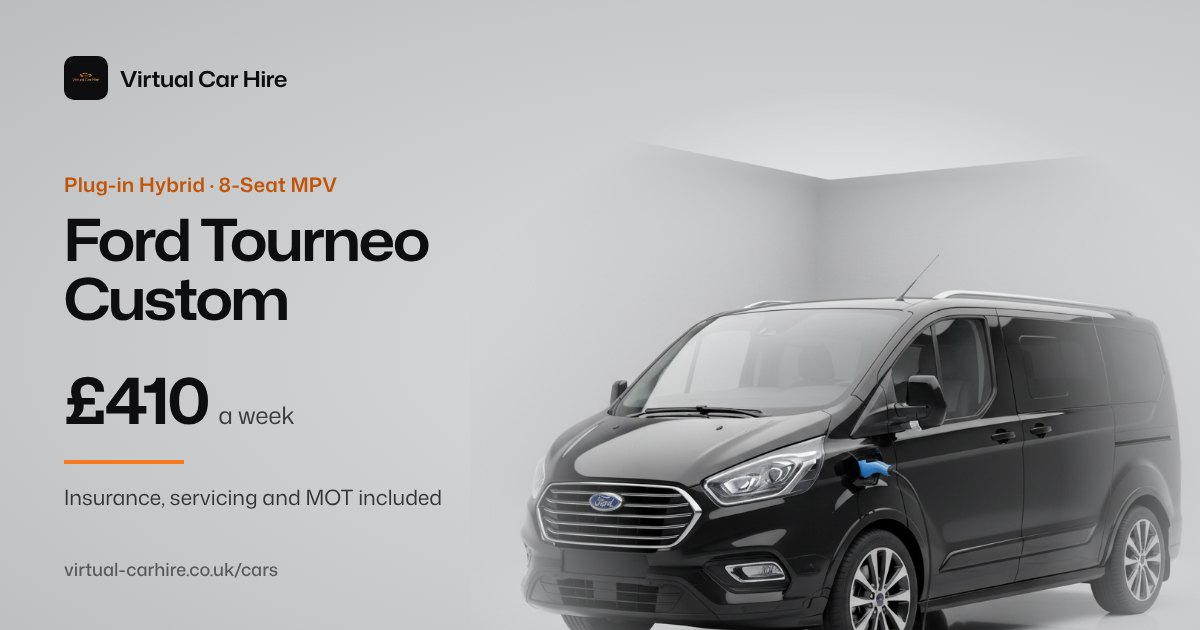
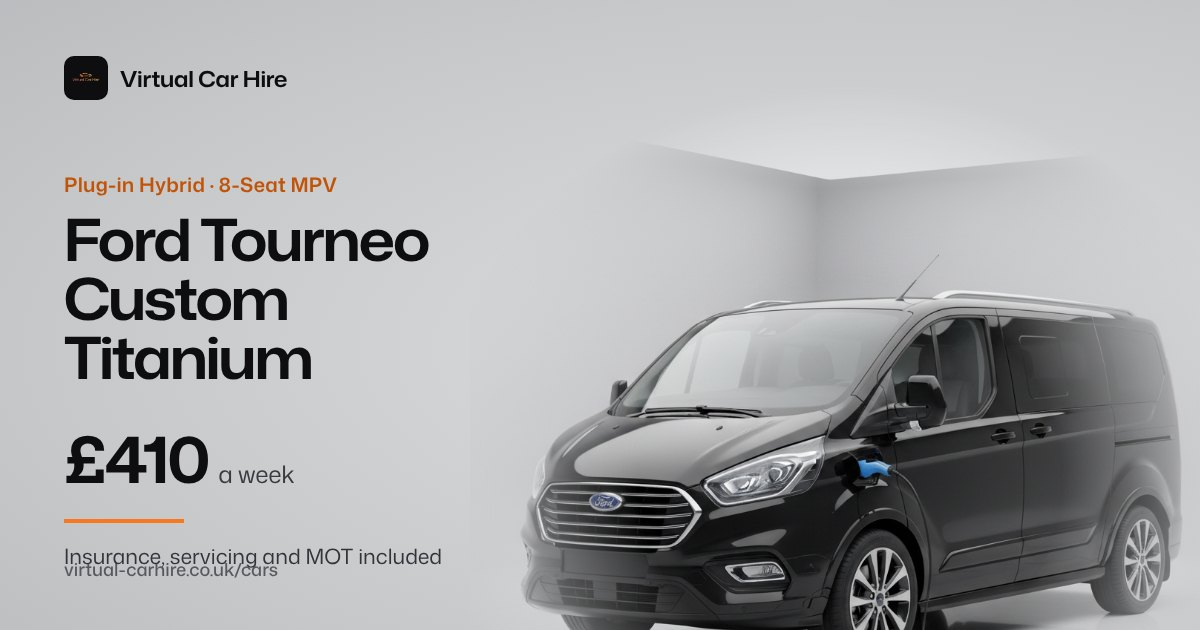
Use the exact model name: Ford Tourneo Custom Titanium
Renamed on the car page (title, H1, description, structured data, image
alt, Uber work section), fleet page, contact/WhatsApp/emergency car
lists, compare links on other car pages, Heathrow page, guides, 404
sitemap, llms.txt and the social preview image. The page URL is
unchanged. Title shortened to stay under 60 characters.

Claude-Session: https://claude.ai/code/session_019Zz3FwNu9oQsJR5fokkDqs

Changed region(s): [[0.0308, 0.5127, 0.37, 0.8444], [0.0617, 0.8746, 0.37, 0.9048]]

diff --git a/cars/ford-tourneo-custom.html b/cars/ford-tourneo-custom.html
@@ -5,8 +5,8 @@
   <meta name="viewport" content="width=device-width, initial-scale=1.0">
   
   <!-- Primary SEO Meta Tags -->
-  <title>Ford Tourneo Custom 9-Seater PCO Car Hire London, £410/wk</title>
-  <meta name="title" content="Ford Tourneo Custom 9-Seater PCO Car Hire London, £410/wk">
+  <title>Ford Tourneo Custom Titanium PCO Hire London, £410/wk</title>
+  <meta name="title" content="Ford Tourneo Custom Titanium PCO Hire London, £410/wk">
   <meta name="language" content="English">
   <meta name="revisit-after" content="7 days">
   
@@ -24,8 +24,8 @@
     "Product",
     "Car"
   ],
-  "name": "Ford Tourneo Custom PCO Hire",
-  "description": "Ford Tourneo Custom plug-in hybrid for PCO driving in London. Includes Insurance and servicing included.",
+  "name": "Ford Tourneo Custom Titanium PCO Hire",
+  "description": "Ford Tourneo Custom Titanium plug-in hybrid for PCO driving in London. Includes Insurance and servicing included.",
   "brand": {
     "@type": "Brand",
     "name": "Ford"
@@ -255,7 +255,7 @@
       .dynamic-island a i { margin: 0; }
     }
   </style>
-  <meta name="description" content="Hire an 8 or 9-seat Ford Tourneo Custom for UberXL and airport runs from £410 a week. Insurance, servicing and MOT included. Collect from Hounslow.">
+  <meta name="description" content="Hire an 8 or 9-seat Ford Tourneo Custom Titanium for UberXL and airport runs from £410 a week. Insurance, servicing and MOT included. Collect from Hounslow.">
   <meta name="keywords" content="PCO car hire London, PCO rental London, Uber car hire London, Bolt car hire London, electric PCO cars, hybrid PCO cars">
   <meta name="robots" content="index,follow,max-image-preview:large,max-snippet:-1,max-video-preview:-1">
   <meta name="author" content="Virtual Car Hire">
@@ -266,17 +266,17 @@
   <meta property="og:type" content="website">
   <meta property="og:site_name" content="Virtual Car Hire">
   <meta property="og:url" content="https://www.virtual-carhire.co.uk/cars/ford-tourneo-custom">
-  <meta property="og:title" content="Ford Tourneo Custom 9-Seater PCO Car Hire London, £410/wk">
-  <meta property="og:description" content="Hire an 8 or 9-seat Ford Tourneo Custom for UberXL and airport runs from £410 a week. Insurance, servicing and MOT included. Collect from Hounslow.">
+  <meta property="og:title" content="Ford Tourneo Custom Titanium PCO Hire London, £410/wk">
+  <meta property="og:description" content="Hire an 8 or 9-seat Ford Tourneo Custom Titanium for UberXL and airport runs from £410 a week. Insurance, servicing and MOT included. Collect from Hounslow.">
   <meta property="og:image" content="https://www.virtual-carhire.co.uk/assets/social/og/car-ford-tourneo-custom.jpg">
     <meta property="og:image:width" content="1200">
   <meta property="og:image:height" content="630">
   <meta property="og:image:type" content="image/jpeg">
-  <meta property="og:image:alt" content="Ford Tourneo Custom 9-Seater PCO Car Hire London, £410/wk">
+  <meta property="og:image:alt" content="Ford Tourneo Custom Titanium PCO Hire London, £410/wk">
 <meta name="twitter:card" content="summary_large_image">
   <meta name="twitter:url" content="https://www.virtual-carhire.co.uk/cars/ford-tourneo-custom">
-  <meta name="twitter:title" content="Ford Tourneo Custom 9-Seater PCO Car Hire London, £410/wk">
-  <meta name="twitter:description" content="Hire an 8 or 9-seat Ford Tourneo Custom for UberXL and airport runs from £410 a week. Insurance, servicing and MOT included. Collect from Hounslow.">
+  <meta name="twitter:title" content="Ford Tourneo Custom Titanium PCO Hire London, £410/wk">
+  <meta name="twitter:description" content="Hire an 8 or 9-seat Ford Tourneo Custom Titanium for UberXL and airport runs from £410 a week. Insurance, servicing and MOT included. Collect from Hounslow.">
   <meta name="twitter:image" content="https://www.virtual-carhire.co.uk/assets/social/og/car-ford-tourneo-custom.jpg">
   <link rel="canonical" href="https://www.virtual-carhire.co.uk/cars/ford-tourneo-custom">
   <link rel="alternate" type="text/plain" href="/llms.txt" title="AI-readable site summary">
@@ -296,7 +296,7 @@
       {
         "@type": "ListItem",
         "position": 2,
-        "name": "Ford Tourneo Custom PCO Car Hire London",
+        "name": "Ford Tourneo Custom Titanium PCO Car Hire London",
         "item": "https://www.virtual-carhire.co.uk/cars/ford-tourneo-custom"
       }
     ]
@@ -460,8 +460,8 @@
       "@type": "WebPage",
       "@id": "https://www.virtual-carhire.co.uk/cars/ford-tourneo-custom#webpage",
       "url": "https://www.virtual-carhire.co.uk/cars/ford-tourneo-custom",
-      "name": "Ford Tourneo Custom 8/9 Seater PCO Hire London | Minibus Rental | Virtual Car Hire",
-      "description": "Rent an 8 or 9-seater Ford Tourneo Custom PCO minibus in London & Luton from \u00a3410/week. Spacious MPV for UberXL, airport transfers, and group travel.",
+      "name": "Ford Tourneo Custom Titanium 8/9 Seater PCO Hire London | Minibus Rental | Virtual Car Hire",
+      "description": "Rent an 8 or 9-seater Ford Tourneo Custom Titanium PCO minibus in London & Luton from \u00a3410/week. Spacious MPV for UberXL, airport transfers, and group travel.",
       "isPartOf": {
         "@id": "https://www.virtual-carhire.co.uk/#website"
       },
@@ -480,7 +480,7 @@
       "@id": "https://www.virtual-carhire.co.uk/cars/ford-tourneo-custom#image",
       "url": "https://www.virtual-carhire.co.uk/assets/social/ford-tourneo-custom-v2.jpg?v=2",
       "contentUrl": "https://www.virtual-carhire.co.uk/assets/social/ford-tourneo-custom-v2.jpg?v=2",
-      "caption": "Ford Tourneo Custom 8/9 Seater PCO Hire London | Minibus Rental | Virtual Car Hire"
+      "caption": "Ford Tourneo Custom Titanium 8/9 Seater PCO Hire London | Minibus Rental | Virtual Car Hire"
     }
   ]
 }
@@ -529,13 +529,13 @@
 
 <section class="hero vch-enter">
   <div class="hero-inner">
-    <div style="display:flex;gap:16px;align-items:center;margin-bottom:28px;"><nav class="crumbs" aria-label="Breadcrumb"><a href="/"><i class="fa-solid fa-house"></i> Home</a><span class="sep"><i class="fa-solid fa-chevron-right"></i></span><a href="/our-fleet">Fleet</a><span class="sep"><i class="fa-solid fa-chevron-right"></i></span><span class="current">Ford Tourneo Custom</span></nav><span style="color:#555;">|</span><a class="back-link" href="/our-fleet"><i class="fa-solid fa-arrow-left"></i> Back to full fleet</a></div>
+    <div style="display:flex;gap:16px;align-items:center;margin-bottom:28px;"><nav class="crumbs" aria-label="Breadcrumb"><a href="/"><i class="fa-solid fa-house"></i> Home</a><span class="sep"><i class="fa-solid fa-chevron-right"></i></span><a href="/our-fleet">Fleet</a><span class="sep"><i class="fa-solid fa-chevron-right"></i></span><span class="current">Ford Tourneo Custom Titanium</span></nav><span style="color:#555;">|</span><a class="back-link" href="/our-fleet"><i class="fa-solid fa-arrow-left"></i> Back to full fleet</a></div>
     <div class="hero-grid">
       <div class="hero-left">
         <span class="fuel-badge plugin-hybrid">Plug-in Hybrid</span>
-        <h1 class="hero-title">Ford Tourneo Custom 8/9 Seater PCO Hire London</h1>
+        <h1 class="hero-title">Ford Tourneo Custom Titanium 8/9 Seater PCO Hire London</h1>
         <p class="hero-subtitle">Plug-in Hybrid · 8-Seat MPV</p>
-        <p class="hero-desc">The Ford Tourneo Custom is a flexible 8/9-seater MPV engineered for high-volume luggage and passenger comfort. Highly popular for London Luton Airport, Heathrow transfers, and UberXL group bookings.</p>
+        <p class="hero-desc">The Ford Tourneo Custom Titanium is a flexible 8/9-seater MPV engineered for high-volume luggage and passenger comfort. Highly popular for London Luton Airport, Heathrow transfers, and UberXL group bookings.</p>
         <div class="hero-price"><span class="amount">£410</span><span class="period"> /week</span></div>
         <p class="hero-incl"><i class="fas fa-check-circle" style="color:#e85d04"></i> Insurance &amp; service included</p>
         <div class="hero-btns">
@@ -551,7 +551,7 @@
       </div>
       <div class="hero-right">
         <div class="hero-img-wrap">
-          <img src="https://media.base44.com/images/public/6a1f346b7b17a237b494bdf9/e883f54fd_generated_image.png" alt="Ford Tourneo Custom" decoding="async"></div>
+          <img src="https://media.base44.com/images/public/6a1f346b7b17a237b494bdf9/e883f54fd_generated_image.png" alt="Ford Tourneo Custom Titanium" decoding="async"></div>
       </div>
     </div>
   </div>
@@ -560,7 +560,7 @@
   <div class="container">
     <div class="vch-carinfo__head">
       <p class="vch-carinfo__kicker">On the road</p>
-      <h2 id="carinfo-title">What the Ford Tourneo Custom is like for Uber work</h2>
+      <h2 id="carinfo-title">What the Ford Tourneo Custom Titanium is like for Uber work</h2>
       <p class="vch-carinfo__intro">A full-size plug-in hybrid people carrier. Room for big groups and all their bags, with electric running for shorter trips and petrol for long airport runs.</p>
     </div>
     <div class="vch-carinfo__specs"><div><b>Up to 9</b><span>seats</span></div><div><b>~35 miles</b><span>on electric alone</span></div><div><b>2.5 petrol</b><span>plug-in hybrid</span></div><div><b>Sliding</b><span>side doors for easy loading</span></div></div>
@@ -641,7 +641,7 @@
 <section class="vehicle-action-section" style="background:#111116;color:#fff;padding:60px 24px;text-align:center;border-top:1px solid rgba(255,255,255,0.12);">
   <div class="container" style="max-width:960px;margin:0 auto;">
     <span style="display:inline-block;color:#f7791f;font-size:12px;font-weight:700;letter-spacing:2px;text-transform:uppercase;margin-bottom:12px;"><i class="fa-solid fa-key"></i> Ready To Drive?</span>
-    <h2 style="font-family:'Playfair Display',serif;font-size:clamp(28px,4vw,42px);font-weight:700;margin-bottom:12px;color:#fff;">Hire The Ford Tourneo Custom 8/9 Seater PCO Hire London Today</h2>
+    <h2 style="font-family:'Playfair Display',serif;font-size:clamp(28px,4vw,42px);font-weight:700;margin-bottom:12px;color:#fff;">Hire The Ford Tourneo Custom Titanium 8/9 Seater PCO Hire London Today</h2>
     <p style="color:#cbd5e1;font-size:16px;max-width:600px;margin:0 auto 32px;line-height:1.6;">Contact our team now for instant availability, same-day onboarding, and simple document verification.</p>
 
     <div class="vehicle-action-buttons" style="display:flex;gap:16px;justify-content:center;align-items:center;flex-wrap:wrap;margin-bottom:28px;">

diff --git a/emergency.html b/emergency.html
@@ -193,7 +193,7 @@
   </div>
 </header>
   <main>
-    <section class="page-hero whatsapp-hero vch-split vch-enter" data-no-cue style="--hero-img:url('/assets/img/heroes/emergency.webp');--hero-pos:center 50%"><div class="container"><div class="vch-split__copy"><div class="crumbs"><a href="index.html">Home</a><span>/</span><span>Emergency support</span></div><span class="emergency-hero-icon"><i class="fas fa-triangle-exclamation"></i></span><span class="hero-pill"><span class="dot"></span> Available 24 hours a day</span><h1>Emergency support for <span class="em">PCO drivers</span> in London</h1><p>Find the Virtual Car Hire emergency WhatsApp number for after-hours support in London. Use it when it is outside office hours or when a member of our team is not responding. Send a message or call the number directly.</p></div><div class="glass-form-card vch-split__form vch-card"><div class="form-card-top"><span class="form-icon"><i class="fas fa-triangle-exclamation"></i></span><div><h2>Send an urgent message</h2><p>We’ll prepare it for WhatsApp.</p></div></div><form id="emergencyEnquiryForm" novalidate data-flow data-review="Ready to send?"><div data-step data-q="First, what's your name?"><div class="vch-pair"><input data-label="First name" name="firstName" type="text" autocomplete="given-name" placeholder="e.g. Areeb" required /><input data-label="Last name" name="lastName" type="text" autocomplete="family-name" placeholder="e.g. Ansari" required /></div></div><div data-step data-q="What do you need help with?" data-label="Issue"><select name="issue" required><option value="" selected disabled>Select an option</option><option>Emergency Breakdown</option><option>Report a Crash</option><option>Out of Office</option><option>Other</option></select></div><div data-step data-q="Which vehicle is it?" data-hint="Optional. Skip it if you are not sure." data-label="Vehicle"><select name="vehicle"><option value="Not specified" selected>Not specified</option><option>Mercedes E300</option><option>Mercedes Vito</option><option>Mercedes V-Class</option><option>Mercedes EQS</option><option>Mercedes E220D</option><option>Mercedes EQE</option><option>Toyota Corolla Estate</option><option>Toyota Auris Estate</option><option>Toyota Prius</option><option>Tesla Model 3</option><option>Jaguar I-Pace</option><option>Hyundai IONIQ</option><option>MG5 EV</option><option>Ford Tourneo Custom</option><option>MG S9 PHEV SUV</option><option>Hyundai Santa Fe</option><option>Hyundai Santa Fe 2026</option></select></div><div data-step data-q="Briefly, what happened?" data-hint="Where you are and what you need. Key details only." data-label="Details"><textarea name="details" rows="4" placeholder="Give us the key details so we can help faster." required></textarea></div><button class="btn btn-wa" type="submit"><i class="fab fa-whatsapp"></i> Prepare emergency WhatsApp</button><p class="form-note"><i class="fas fa-lock"></i> Nothing is sent until you choose WhatsApp.</p><div id="emergencySuccess" class="emergency-success" aria-live="polite"><div class="success-check"><i class="fas fa-check"></i></div><h3>Your message is ready</h3><p>WhatsApp will open with your urgent enquiry prefilled.</p><a id="sendEmergencyWhatsapp" class="btn btn-wa" href="#" rel="noopener"><i class="fab fa-whatsapp"></i> Send to WhatsApp</a><button id="editEmergency" class="edit-link" type="button">Edit my details</button></div></form></div></div></section>
+    <section class="page-hero whatsapp-hero vch-split vch-enter" data-no-cue style="--hero-img:url('/assets/img/heroes/emergency.webp');--hero-pos:center 50%"><div class="container"><div class="vch-split__copy"><div class="crumbs"><a href="index.html">Home</a><span>/</span><span>Emergency support</span></div><span class="emergency-hero-icon"><i class="fas fa-triangle-exclamation"></i></span><span class="hero-pill"><span class="dot"></span> Available 24 hours a day</span><h1>Emergency support for <span class="em">PCO drivers</span> in London</h1><p>Find the Virtual Car Hire emergency WhatsApp number for after-hours support in London. Use it when it is outside office hours or when a member of our team is not responding. Send a message or call the number directly.</p></div><div class="glass-form-card vch-split__form vch-card"><div class="form-card-top"><span class="form-icon"><i class="fas fa-triangle-exclamation"></i></span><div><h2>Send an urgent message</h2><p>We’ll prepare it for WhatsApp.</p></div></div><form id="emergencyEnquiryForm" novalidate data-flow data-review="Ready to send?"><div data-step data-q="First, what's your name?"><div class="vch-pair"><input data-label="First name" name="firstName" type="text" autocomplete="given-name" placeholder="e.g. Areeb" required /><input data-label="Last name" name="lastName" type="text" autocomplete="family-name" placeholder="e.g. Ansari" required /></div></div><div data-step data-q="What do you need help with?" data-label="Issue"><select name="issue" required><option value="" selected disabled>Select an option</option><option>Emergency Breakdown</option><option>Report a Crash</option><option>Out of Office</option><option>Other</option></select></div><div data-step data-q="Which vehicle is it?" data-hint="Optional. Skip it if you are not sure." data-label="Vehicle"><select name="vehicle"><option value="Not specified" selected>Not specified</option><option>Mercedes E300</option><option>Mercedes Vito</option><option>Mercedes V-Class</option><option>Mercedes EQS</option><option>Mercedes E220D</option><option>Mercedes EQE</option><option>Toyota Corolla Estate</option><option>Toyota Auris Estate</option><option>Toyota Prius</option><option>Tesla Model 3</option><option>Jaguar I-Pace</option><option>Hyundai IONIQ</option><option>MG5 EV</option><option>Ford Tourneo Custom Titanium</option><option>MG S9 PHEV SUV</option><option>Hyundai Santa Fe</option><option>Hyundai Santa Fe 2026</option></select></div><div data-step data-q="Briefly, what happened?" data-hint="Where you are and what you need. Key details only." data-label="Details"><textarea name="details" rows="4" placeholder="Give us the key details so we can help faster." required></textarea></div><button class="btn btn-wa" type="submit"><i class="fab fa-whatsapp"></i> Prepare emergency WhatsApp</button><p class="form-note"><i class="fas fa-lock"></i> Nothing is sent until you choose WhatsApp.</p><div id="emergencySuccess" class="emergency-success" aria-live="polite"><div class="success-check"><i class="fas fa-check"></i></div><h3>Your message is ready</h3><p>WhatsApp will open with your urgent enquiry prefilled.</p><a id="sendEmergencyWhatsapp" class="btn btn-wa" href="#" rel="noopener"><i class="fab fa-whatsapp"></i> Send to WhatsApp</a><button id="editEmergency" class="edit-link" type="button">Edit my details</button></div></form></div></div></section>
     <section class="emergency-section"><div class="container emergency-layout">
       <div class="emergency-copy"><span class="eyebrow">After-hours London support</span><h2>Fast emergency support for London PCO <span class="em">drivers.</span></h2><p>Use this page after office hours when you need urgent Virtual Car Hire support, or when a member of our team is not responding. It is intended for emergency breakdowns, crash reports and other urgent rental-support matters across Hounslow, Heathrow, West London and Greater London.</p><div class="emergency-number-card"><small>Virtual Car Hire after-hours emergency WhatsApp</small><a class="emergency-number-link" href="https://wa.me/447508496940?text=Hi%20Virtual%20Car%20Hire%2C%20I%20need%20car%20enquiry%20or%20emergency%20support." rel="noopener" title="WhatsApp +44 20 7294 6756" aria-label="WhatsApp +44 20 7294 6756"><i class="fab fa-whatsapp"></i> +44 20 7294 6756</a><span>Use this number after office hours or when a member of our team is not responding. Tap to open WhatsApp, or use the call button below.</span><div class="emergency-actions"><a class="emergency-number-link btn btn-wa" href="https://wa.me/447508496940?text=Hi%20Virtual%20Car%20Hire%2C%20I%20need%20car%20enquiry%20or%20emergency%20support." rel="noopener" title="WhatsApp +44 20 7294 6756" aria-label="WhatsApp +44 20 7294 6756"><i class="fab fa-whatsapp"></i> WhatsApp now</a><a class="emergency-number-link btn btn-ghost" href="tel:+442072946756"><i class="fas fa-phone"></i> +44 20 7294 6756</a></div></div><p class="emergency-note"><i class="fas fa-circle-info"></i><span>This number is intended for use after office hours and when a member of our team is not responding. It is for Virtual Car Hire rental and vehicle-support enquiries. For a life-threatening emergency or immediate danger in the UK, call 999.</span></p></div>
       

diff --git a/whatsapp.html b/whatsapp.html
@@ -149,7 +149,7 @@
 </header>
 
   <main>
-    <section class="page-hero whatsapp-hero vch-split vch-enter" data-no-cue style="--hero-img:url('/assets/img/heroes/whatsapp.webp');--hero-pos:center 40%"><div class="container"><div class="vch-split__copy"><div class="crumbs"><a href="index.html">Home</a><span>/</span><span>WhatsApp enquiry</span></div><span class="hero-pill"><span class="dot"></span> Start your enquiry</span><h1>Ask about <span class="em">PCO car hire</span> on WhatsApp</h1><p>Share your details and the car you have in mind. We’ll prepare a message for WhatsApp so our team can help you get on the road.</p></div><div class="glass-form-card vch-split__form vch-card"><div class="form-card-top"><span class="form-icon"><i class="fab fa-whatsapp"></i></span><div><h2>WhatsApp us</h2><p>Tell us what you need.</p></div></div><form id="whatsappEnquiryForm" novalidate data-flow data-review="Ready to open WhatsApp?"><div data-step data-q="First, what's your name?"><div class="vch-pair"><input data-label="First name" name="firstName" type="text" autocomplete="given-name" placeholder="e.g. Areeb" required /><input data-label="Last name" name="lastName" type="text" autocomplete="family-name" placeholder="e.g. Ansari" required /></div></div><div data-step data-q="Which car do you want to rent?" data-label="Car"><select name="car" required><option value="" selected disabled>Select a vehicle</option><option>Mercedes E300</option><option>Mercedes Vito</option><option>Mercedes V-Class</option><option>Mercedes EQS</option><option>Mercedes E220D</option><option>Mercedes EQE</option><option>Toyota Corolla Estate</option><option>Toyota Auris Estate</option><option>Toyota Prius</option><option>Tesla Model 3</option><option>Jaguar I-Pace</option><option>Hyundai IONIQ</option><option>MG5 EV</option><option>Ford Tourneo Custom</option><option>MG S9 PHEV SUV</option><option>Hyundai Santa Fe</option><option>Hyundai Santa Fe 2026</option></select></div><button class="btn btn-wa" type="submit"><i class="fab fa-whatsapp"></i> Prepare WhatsApp message</button><p class="form-note"><i class="fas fa-lock"></i> Your details stay in your browser until you choose to send.</p><div id="whatsappSuccess" class="whatsapp-success" aria-live="polite"><div class="success-check"><i class="fas fa-check"></i></div><h3>Your message is ready</h3><p>WhatsApp will open with your enquiry prefilled.</p><a id="sendWhatsapp" class="btn btn-wa" href="#" rel="noopener"><i class="fab fa-whatsapp"></i> Send to WhatsApp</a><button id="editEnquiry" class="edit-link" type="button">Edit my details</button></div></form></div></div></section>
+    <section class="page-hero whatsapp-hero vch-split vch-enter" data-no-cue style="--hero-img:url('/assets/img/heroes/whatsapp.webp');--hero-pos:center 40%"><div class="container"><div class="vch-split__copy"><div class="crumbs"><a href="index.html">Home</a><span>/</span><span>WhatsApp enquiry</span></div><span class="hero-pill"><span class="dot"></span> Start your enquiry</span><h1>Ask about <span class="em">PCO car hire</span> on WhatsApp</h1><p>Share your details and the car you have in mind. We’ll prepare a message for WhatsApp so our team can help you get on the road.</p></div><div class="glass-form-card vch-split__form vch-card"><div class="form-card-top"><span class="form-icon"><i class="fab fa-whatsapp"></i></span><div><h2>WhatsApp us</h2><p>Tell us what you need.</p></div></div><form id="whatsappEnquiryForm" novalidate data-flow data-review="Ready to open WhatsApp?"><div data-step data-q="First, what's your name?"><div class="vch-pair"><input data-label="First name" name="firstName" type="text" autocomplete="given-name" placeholder="e.g. Areeb" required /><input data-label="Last name" name="lastName" type="text" autocomplete="family-name" placeholder="e.g. Ansari" required /></div></div><div data-step data-q="Which car do you want to rent?" data-label="Car"><select name="car" required><option value="" selected disabled>Select a vehicle</option><option>Mercedes E300</option><option>Mercedes Vito</option><option>Mercedes V-Class</option><option>Mercedes EQS</option><option>Mercedes E220D</option><option>Mercedes EQE</option><option>Toyota Corolla Estate</option><option>Toyota Auris Estate</option><option>Toyota Prius</option><option>Tesla Model 3</option><option>Jaguar I-Pace</option><option>Hyundai IONIQ</option><option>MG5 EV</option><option>Ford Tourneo Custom Titanium</option><option>MG S9 PHEV SUV</option><option>Hyundai Santa Fe</option><option>Hyundai Santa Fe 2026</option></select></div><button class="btn btn-wa" type="submit"><i class="fab fa-whatsapp"></i> Prepare WhatsApp message</button><p class="form-note"><i class="fas fa-lock"></i> Your details stay in your browser until you choose to send.</p><div id="whatsappSuccess" class="whatsapp-success" aria-live="polite"><div class="success-check"><i class="fas fa-check"></i></div><h3>Your message is ready</h3><p>WhatsApp will open with your enquiry prefilled.</p><a id="sendWhatsapp" class="btn btn-wa" href="#" rel="noopener"><i class="fab fa-whatsapp"></i> Send to WhatsApp</a><button id="editEnquiry" class="edit-link" type="button">Edit my details</button></div></form></div></div></section>
     <section class="whatsapp-section"><div class="container whatsapp-layout">
       <div class="whatsapp-copy"><span class="eyebrow">Direct to our team</span><h2>A quicker way to <span class="em">hire a PCO car in London.</span></h2><p>Choose a vehicle from our current fleet and send a clear, prefilled enquiry to Virtual Car Hire. You stay in control of the message before it opens in WhatsApp.</p><div class="whatsapp-points"><div><i class="fas fa-shield-halved"></i><span><strong>Insurance included</strong><small>Every listed vehicle is covered.</small></span></div><div><i class="fas fa-clock"></i><span><strong>Fast response</strong><small>Speak directly with our London team.</small></span></div><div><i class="fas fa-car-side"></i><span><strong>PCO-ready fleet</strong><small>Cars for Uber, Bolt and Ola drivers.</small></span></div></div></div>
       

diff --git a/pco-car-hire-heathrow.html b/pco-car-hire-heathrow.html
@@ -122,7 +122,7 @@
       "name": "Which cars suit Heathrow airport runs?",
       "acceptedAnswer": {
         "@type": "Answer",
-        "text": "Estates like the Toyota Corolla and Auris carry plenty of luggage. For UberXL and group transfers there are 7 to 9-seat options: the Mercedes Vito, Mercedes V-Class, Ford Tourneo Custom and Hyundai Santa Fe."
+        "text": "Estates like the Toyota Corolla and Auris carry plenty of luggage. For UberXL and group transfers there are 7 to 9-seat options: the Mercedes Vito, Mercedes V-Class, Ford Tourneo Custom Titanium and Hyundai Santa Fe."
       }
     },
     {
@@ -413,7 +413,7 @@
       <h2 class="title center">Questions from <span class="em">Heathrow drivers</span></h2>
     </div>
     <div class="faq-list reveal-stagger">
-      <details class="faq-item"><summary>Where do I collect my PCO car for Heathrow work? <span class="arrow"><i class="fa-solid fa-plus"></i></span></summary><div class="answer">From our depot at The Vista Centre, 50 Salisbury Road, Cranford, Hounslow TW4 6JQ. It is a short drive from Heathrow Airport. Collections are booked in advance, Monday to Friday, 9am to 6pm.</div></details><details class="faq-item"><summary>Which cars suit Heathrow airport runs? <span class="arrow"><i class="fa-solid fa-plus"></i></span></summary><div class="answer">Estates like the Toyota Corolla and Auris carry plenty of luggage. For UberXL and group transfers there are 7 to 9-seat options: the Mercedes Vito, Mercedes V-Class, Ford Tourneo Custom and Hyundai Santa Fe.</div></details><details class="faq-item"><summary>Can I use the cars on Uber, Bolt and Ola? <span class="arrow"><i class="fa-solid fa-plus"></i></span></summary><div class="answer">Yes. Every car is TfL licensed and PCO ready, and we upload your vehicle documents to Uber, Bolt and Ola for you.</div></details><details class="faq-item"><summary>What is included in the weekly price? <span class="arrow"><i class="fa-solid fa-plus"></i></span></summary><div class="answer">Insurance, servicing, MOT and roadside breakdown cover are included, with 5,000 miles a month.</div></details><details class="faq-item"><summary>When do you reply to enquiries? <span class="arrow"><i class="fa-solid fa-plus"></i></span></summary><div class="answer">We reply within 24 hours on weekdays, Monday to Friday. Messages sent at the weekend are answered on Monday.</div></details>
+      <details class="faq-item"><summary>Where do I collect my PCO car for Heathrow work? <span class="arrow"><i class="fa-solid fa-plus"></i></span></summary><div class="answer">From our depot at The Vista Centre, 50 Salisbury Road, Cranford, Hounslow TW4 6JQ. It is a short drive from Heathrow Airport. Collections are booked in advance, Monday to Friday, 9am to 6pm.</div></details><details class="faq-item"><summary>Which cars suit Heathrow airport runs? <span class="arrow"><i class="fa-solid fa-plus"></i></span></summary><div class="answer">Estates like the Toyota Corolla and Auris carry plenty of luggage. For UberXL and group transfers there are 7 to 9-seat options: the Mercedes Vito, Mercedes V-Class, Ford Tourneo Custom Titanium and Hyundai Santa Fe.</div></details><details class="faq-item"><summary>Can I use the cars on Uber, Bolt and Ola? <span class="arrow"><i class="fa-solid fa-plus"></i></span></summary><div class="answer">Yes. Every car is TfL licensed and PCO ready, and we upload your vehicle documents to Uber, Bolt and Ola for you.</div></details><details class="faq-item"><summary>What is included in the weekly price? <span class="arrow"><i class="fa-solid fa-plus"></i></span></summary><div class="answer">Insurance, servicing, MOT and roadside breakdown cover are included, with 5,000 miles a month.</div></details><details class="faq-item"><summary>When do you reply to enquiries? <span class="arrow"><i class="fa-solid fa-plus"></i></span></summary><div class="answer">We reply within 24 hours on weekdays, Monday to Friday. Messages sent at the weekend are answered on Monday.</div></details>
     </div>
   </div>
 </section>

diff --git a/cars/hyundai-santa-fe-2026.html b/cars/hyundai-santa-fe-2026.html
@@ -591,7 +591,7 @@
     <p class="vch-carinfo__note">Figures are rounded manufacturer estimates and vary by version, weather and driving style. Uber category eligibility depends on the car's age and the current Uber list, so we confirm it before you start. See our <a href="/guides/uber-bolt-eligible-cars">Uber and Bolt eligible cars guide</a>.</p>
   </div>
 </section>
-<section class="vch-compare" style="padding:28px 0;background:#eef0f2;border-top:1px solid rgba(0,0,0,.06)"><div class="container" style="max-width:1320px"><div class="related-vehicles-box" style="margin-top:24px;padding:18px;background:rgba(255,255,255,0.04);border-radius:12px;border:1px solid rgba(255,255,255,0.08);"><div style="font-size:12px;color:#a1a1aa;text-transform:uppercase;letter-spacing:1px;margin-bottom:10px;font-weight:700;"><i class="fa-solid fa-code-compare"></i> Compare Related PCO Vehicles</div><div style="display:flex;gap:10px;flex-wrap:wrap;"><a class="btn btn-ghost" href="/cars/ford-tourneo-custom" style="font-size:13px;padding:8px 16px;"><i class="fa-solid fa-car"></i> Ford Tourneo Custom</a> <a class="btn btn-ghost" href="/cars/mercedes-vito" style="font-size:13px;padding:8px 16px;"><i class="fa-solid fa-car"></i> Mercedes Vito</a> <a class="btn btn-ghost" href="/cars/toyota-corolla-estate" style="font-size:13px;padding:8px 16px;"><i class="fa-solid fa-car"></i> Toyota Corolla Estate</a></div></div></div></section>
+<section class="vch-compare" style="padding:28px 0;background:#eef0f2;border-top:1px solid rgba(0,0,0,.06)"><div class="container" style="max-width:1320px"><div class="related-vehicles-box" style="margin-top:24px;padding:18px;background:rgba(255,255,255,0.04);border-radius:12px;border:1px solid rgba(255,255,255,0.08);"><div style="font-size:12px;color:#a1a1aa;text-transform:uppercase;letter-spacing:1px;margin-bottom:10px;font-weight:700;"><i class="fa-solid fa-code-compare"></i> Compare Related PCO Vehicles</div><div style="display:flex;gap:10px;flex-wrap:wrap;"><a class="btn btn-ghost" href="/cars/ford-tourneo-custom" style="font-size:13px;padding:8px 16px;"><i class="fa-solid fa-car"></i> Ford Tourneo Custom Titanium</a> <a class="btn btn-ghost" href="/cars/mercedes-vito" style="font-size:13px;padding:8px 16px;"><i class="fa-solid fa-car"></i> Mercedes Vito</a> <a class="btn btn-ghost" href="/cars/toyota-corolla-estate" style="font-size:13px;padding:8px 16px;"><i class="fa-solid fa-car"></i> Toyota Corolla Estate</a></div></div></div></section>
 
 <div class="terms-strip"><p>Weekly rate is for <strong>5,000 miles per month</strong>. <strong>Contract term: minimum 8 weeks</strong>. Any miles over <strong>5,000 per month</strong> are charged at <strong>20p per mile</strong>*, in accordance with the rental contract. A deposit of <strong>&pound;500</strong> is required. Fully comprehensive insurance is included. Terms &amp; conditions apply.</p><p>*If you are to return your vehicle, you must give a 1-week notice before returning your car.</p></div>
 

diff --git a/cars/hyundai-santa-fe.html b/cars/hyundai-santa-fe.html
@@ -591,7 +591,7 @@
     <p class="vch-carinfo__note">Figures are rounded manufacturer estimates and vary by version, weather and driving style. Uber category eligibility depends on the car's age and the current Uber list, so we confirm it before you start. See our <a href="/guides/uber-bolt-eligible-cars">Uber and Bolt eligible cars guide</a>.</p>
   </div>
 </section>
-<section class="vch-compare" style="padding:28px 0;background:#eef0f2;border-top:1px solid rgba(0,0,0,.06)"><div class="container" style="max-width:1320px"><div class="related-vehicles-box" style="margin-top:24px;padding:18px;background:rgba(255,255,255,0.04);border-radius:12px;border:1px solid rgba(255,255,255,0.08);"><div style="font-size:12px;color:#a1a1aa;text-transform:uppercase;letter-spacing:1px;margin-bottom:10px;font-weight:700;"><i class="fa-solid fa-code-compare"></i> Compare Related PCO Vehicles</div><div style="display:flex;gap:10px;flex-wrap:wrap;"><a class="btn btn-ghost" href="/cars/ford-tourneo-custom" style="font-size:13px;padding:8px 16px;"><i class="fa-solid fa-car"></i> Ford Tourneo Custom</a> <a class="btn btn-ghost" href="/cars/mercedes-vito" style="font-size:13px;padding:8px 16px;"><i class="fa-solid fa-car"></i> Mercedes Vito</a> <a class="btn btn-ghost" href="/cars/toyota-corolla-estate" style="font-size:13px;padding:8px 16px;"><i class="fa-solid fa-car"></i> Toyota Corolla Estate</a></div></div></div></section>
+<section class="vch-compare" style="padding:28px 0;background:#eef0f2;border-top:1px solid rgba(0,0,0,.06)"><div class="container" style="max-width:1320px"><div class="related-vehicles-box" style="margin-top:24px;padding:18px;background:rgba(255,255,255,0.04);border-radius:12px;border:1px solid rgba(255,255,255,0.08);"><div style="font-size:12px;color:#a1a1aa;text-transform:uppercase;letter-spacing:1px;margin-bottom:10px;font-weight:700;"><i class="fa-solid fa-code-compare"></i> Compare Related PCO Vehicles</div><div style="display:flex;gap:10px;flex-wrap:wrap;"><a class="btn btn-ghost" href="/cars/ford-tourneo-custom" style="font-size:13px;padding:8px 16px;"><i class="fa-solid fa-car"></i> Ford Tourneo Custom Titanium</a> <a class="btn btn-ghost" href="/cars/mercedes-vito" style="font-size:13px;padding:8px 16px;"><i class="fa-solid fa-car"></i> Mercedes Vito</a> <a class="btn btn-ghost" href="/cars/toyota-corolla-estate" style="font-size:13px;padding:8px 16px;"><i class="fa-solid fa-car"></i> Toyota Corolla Estate</a></div></div></div></section>
 
 <div class="terms-strip"><p>Weekly rate is for <strong>5,000 miles per month</strong>. <strong>Contract term: minimum 8 weeks</strong>. Any miles over <strong>5,000 per month</strong> are charged at <strong>20p per mile</strong>*, in accordance with the rental contract. A deposit of <strong>&pound;500</strong> is required. Fully comprehensive insurance is included. Terms &amp; conditions apply.</p><p>*If you are to return your vehicle, you must give a 1-week notice before returning your car.</p></div>
 

diff --git a/our-fleet.html b/our-fleet.html
@@ -674,8 +674,8 @@
         <div class="car-body"><h3>MG5 EV</h3><p class="car-meta">Full Electric · Estate</p><div class="car-specs"><span><i class="fas fa-users"></i> 5 seats</span><span><i class="fas fa-cog"></i> Auto</span><span><i class="fas fa-calendar"></i> 2021–2022</span></div><div class="car-foot"><div class="price">£200<small>/wk</small><span class="incl">Insurance &amp; service incl.</span></div><a class="view-btn" href="cars/mg5-ev.html">View <i class="fas fa-arrow-right"></i></a></div></div>
       </div>
       <div class="car" data-make="ford" data-fuel="plugin-hybrid" data-platform="uberx uber-xl">
-        <div class="car-visual"><span class="car-tag plugin">Plug-in Hybrid</span><img loading="lazy" decoding="async" fetchpriority="low" src="https://media.base44.com/images/public/6a1f346b7b17a237b494bdf9/e883f54fd_generated_image.png" alt="Ford Tourneo Custom PHEV 8-Seat MPV"></div>
-        <div class="car-body"><h3>Ford Tourneo Custom</h3><p class="car-meta">Plug-in Hybrid · 8-Seat MPV</p><div class="car-specs"><span><i class="fas fa-users"></i> 8 seats</span><span><i class="fas fa-cog"></i> Auto</span><span><i class="fas fa-calendar"></i> 2024–2025</span></div><div class="car-foot"><div class="price">£410<small>/wk</small><span class="incl">Insurance &amp; service incl.</span></div><a class="view-btn" href="cars/ford-tourneo-custom.html">View <i class="fas fa-arrow-right"></i></a></div></div>
+        <div class="car-visual"><span class="car-tag plugin">Plug-in Hybrid</span><img loading="lazy" decoding="async" fetchpriority="low" src="https://media.base44.com/images/public/6a1f346b7b17a237b494bdf9/e883f54fd_generated_image.png" alt="Ford Tourneo Custom Titanium PHEV 8-Seat MPV"></div>
+        <div class="car-body"><h3>Ford Tourneo Custom Titanium</h3><p class="car-meta">Plug-in Hybrid · 8-Seat MPV</p><div class="car-specs"><span><i class="fas fa-users"></i> 8 seats</span><span><i class="fas fa-cog"></i> Auto</span><span><i class="fas fa-calendar"></i> 2024–2025</span></div><div class="car-foot"><div class="price">£410<small>/wk</small><span class="incl">Insurance &amp; service incl.</span></div><a class="view-btn" href="cars/ford-tourneo-custom.html">View <i class="fas fa-arrow-right"></i></a></div></div>
       </div>
       <div class="car" data-make="mg" data-fuel="plugin-hybrid" data-platform="uberx uber-comfort">
         <div class="car-visual"><span class="car-tag plugin">Plug-in Hybrid</span><img loading="lazy" decoding="async" fetchpriority="low" src="https://media.base44.com/images/public/6a1f346b7b17a237b494bdf9/d196ca34e_generated_image.png" alt="MG S9 PHEV SUV PCO Car"></div>

diff --git a/cars/mercedes-vito.html b/cars/mercedes-vito.html
@@ -574,7 +574,7 @@
   </div>
 </section>
 <section class="vch-compare" style="padding:28px 0;background:#eef0f2;border-top:1px solid rgba(0,0,0,.06)"><div class="container" style="max-width:1320px"><div class="related-vehicles-box" style="margin-top:24px;padding:18px;background:rgba(255,255,255,0.04);border-radius:12px;border:1px solid rgba(255,255,255,0.08);"><div style="font-size:12px;color:#a1a1aa;text-transform:uppercase;letter-spacing:1px;margin-bottom:10px;font-weight:700;"><i class="fa-solid fa-code-compare"></i> Compare Related PCO Vehicles</div>
-<div style="display:flex;gap:10px;flex-wrap:wrap;"><a class="btn btn-ghost" href="/cars/mercedes-v-class" style="font-size:13px;padding:8px 16px;"><i class="fa-solid fa-car"></i> Mercedes V-Class</a> <a class="btn btn-ghost" href="/cars/ford-tourneo-custom" style="font-size:13px;padding:8px 16px;"><i class="fa-solid fa-car"></i> Ford Tourneo Custom</a> <a class="btn btn-ghost" href="/cars/toyota-corolla-estate" style="font-size:13px;padding:8px 16px;"><i class="fa-solid fa-car"></i> Toyota Corolla Estate</a></div></div></div></section>
+<div style="display:flex;gap:10px;flex-wrap:wrap;"><a class="btn btn-ghost" href="/cars/mercedes-v-class" style="font-size:13px;padding:8px 16px;"><i class="fa-solid fa-car"></i> Mercedes V-Class</a> <a class="btn btn-ghost" href="/cars/ford-tourneo-custom" style="font-size:13px;padding:8px 16px;"><i class="fa-solid fa-car"></i> Ford Tourneo Custom Titanium</a> <a class="btn btn-ghost" href="/cars/toyota-corolla-estate" style="font-size:13px;padding:8px 16px;"><i class="fa-solid fa-car"></i> Toyota Corolla Estate</a></div></div></div></section>
 
 <div class="terms-strip"><p>Weekly rate is for <strong>5,000 miles per month</strong>. <strong>Contract term: minimum 8 weeks</strong>. Any miles over <strong>5,000 per month</strong> are charged at <strong>20p per mile</strong>*, in accordance with the rental contract. A deposit of <strong>&pound;500</strong> is required. Fully comprehensive insurance is included. Terms &amp; conditions apply.</p><p>*If you are to return your vehicle, you must give a 1-week notice before returning your car.</p></div>
 

diff --git a/cars/mercedes-v-class.html b/cars/mercedes-v-class.html
@@ -573,7 +573,7 @@
   </div>
 </section>
 <section class="vch-compare" style="padding:28px 0;background:#eef0f2;border-top:1px solid rgba(0,0,0,.06)"><div class="container" style="max-width:1320px"><div class="related-vehicles-box" style="margin-top:24px;padding:18px;background:rgba(255,255,255,0.04);border-radius:12px;border:1px solid rgba(255,255,255,0.08);"><div style="font-size:12px;color:#a1a1aa;text-transform:uppercase;letter-spacing:1px;margin-bottom:10px;font-weight:700;"><i class="fa-solid fa-code-compare"></i> Compare Related PCO Vehicles</div>
-<div style="display:flex;gap:10px;flex-wrap:wrap;"><a class="btn btn-ghost" href="/cars/mercedes-vito" style="font-size:13px;padding:8px 16px;"><i class="fa-solid fa-car"></i> Mercedes Vito</a> <a class="btn btn-ghost" href="/cars/ford-tourneo-custom" style="font-size:13px;padding:8px 16px;"><i class="fa-solid fa-car"></i> Ford Tourneo Custom</a> <a class="btn btn-ghost" href="/cars/mercedes-eqe" style="font-size:13px;padding:8px 16px;"><i class="fa-solid fa-car"></i> Mercedes EQE</a></div></div></div></section>
+<div style="display:flex;gap:10px;flex-wrap:wrap;"><a class="btn btn-ghost" href="/cars/mercedes-vito" style="font-size:13px;padding:8px 16px;"><i class="fa-solid fa-car"></i> Mercedes Vito</a> <a class="btn btn-ghost" href="/cars/ford-tourneo-custom" style="font-size:13px;padding:8px 16px;"><i class="fa-solid fa-car"></i> Ford Tourneo Custom Titanium</a> <a class="btn btn-ghost" href="/cars/mercedes-eqe" style="font-size:13px;padding:8px 16px;"><i class="fa-solid fa-car"></i> Mercedes EQE</a></div></div></div></section>
 
 <div class="terms-strip"><p>Weekly rate is for 5,000 miles per month. Contract term: minimum 6 weeks. Any miles over 5,000 per month are charged at &pound;0.20 per mile*, in accordance with the rental contract. Fully comprehensive insurance is included. Terms &amp; conditions apply.</p><p>*If you are to return your vehicle, you must give a 1-week notice before returning your car.</p></div>
 

diff --git a/404.html b/404.html
@@ -750,7 +750,7 @@
       <div class="vch-404-sitemap-group"><h3>Driver help</h3><a href="/how-it-works">How It Works</a><a href="/support">Support Centre</a><a href="/areas-we-cover">Areas We Cover</a><a href="/pco-car-hire-luton">Luton PCO Hire</a></div>
       <div class="vch-404-sitemap-group"><h3>Guides</h3><a href="/guides">Guides Hub</a><a href="/how-to-get-pco-licence-london">Get a PCO Licence</a><a href="/start-driving-uber-bolt-london">Start Driving</a><a href="/uber-bolt-pco-cars-london">Uber &amp; Bolt Cars</a></div>
       <div class="vch-404-sitemap-group"><h3>Popular cars</h3><a href="/cars/hyundai-santa-fe">Hyundai Santa Fe</a><a href="/cars/hyundai-santa-fe-2026">Santa Fe 2026</a><a href="/cars/mercedes-e300">Mercedes E300</a><a href="/cars/tesla-model-3">Tesla Model 3</a></div>
-      <div class="vch-404-sitemap-group"><h3>More fleet</h3><a href="/cars/mercedes-eqe">Mercedes EQE</a><a href="/cars/mercedes-vito">Mercedes Vito</a><a href="/cars/mg-s9-phev-suv">MG S9 PHEV</a><a href="/cars/ford-tourneo-custom">Ford Tourneo Custom</a></div>
+      <div class="vch-404-sitemap-group"><h3>More fleet</h3><a href="/cars/mercedes-eqe">Mercedes EQE</a><a href="/cars/mercedes-vito">Mercedes Vito</a><a href="/cars/mg-s9-phev-suv">MG S9 PHEV</a><a href="/cars/ford-tourneo-custom">Ford Tourneo Custom Titanium</a></div>
       <div class="vch-404-sitemap-group"><h3>Company</h3><a href="/whatsapp">WhatsApp Enquiries</a><a href="/emergency">Emergency Support</a><a href="/privacy-policy">Privacy Policy</a><a href="/cookie-policy">Cookie Policy</a></div>
     </nav>
   </div>

diff --git a/uber-bolt-pco-cars-london.html b/uber-bolt-pco-cars-london.html
@@ -403,7 +403,7 @@
             <ul>
               <li><a href="/cars/mercedes-v-class">Mercedes V-Class</a> — Luxury 7/8-seater MPV for high-end executive group travel.</li>
               <li><a href="/cars/mercedes-vito">Mercedes Vito</a> — Versatile 8/9-seater private hire van with massive luggage space.</li>
-              <li><a href="/cars/ford-tourneo-custom">Ford Tourneo Custom</a> — Extremely spacious MPV ideal for airport passenger transport.</li>
+              <li><a href="/cars/ford-tourneo-custom">Ford Tourneo Custom Titanium</a> — Extremely spacious MPV ideal for airport passenger transport.</li>
             </ul>
           </div>
 

diff --git a/contact-us.html b/contact-us.html
@@ -721,7 +721,7 @@
                 <option value="Hyundai Santa Fe 2026">Hyundai Santa Fe 2026</option>
                 <option value="MG5 EV">MG5 EV</option>
                 <option value="MG S9 PHEV SUV">MG S9 PHEV SUV</option>
-                <option value="Ford Tourneo Custom">Ford Tourneo Custom</option>
+                <option value="Ford Tourneo Custom Titanium">Ford Tourneo Custom Titanium</option>
             </select></div>
         </div>
         <div data-step data-q="What's your name?" data-label="Name">
